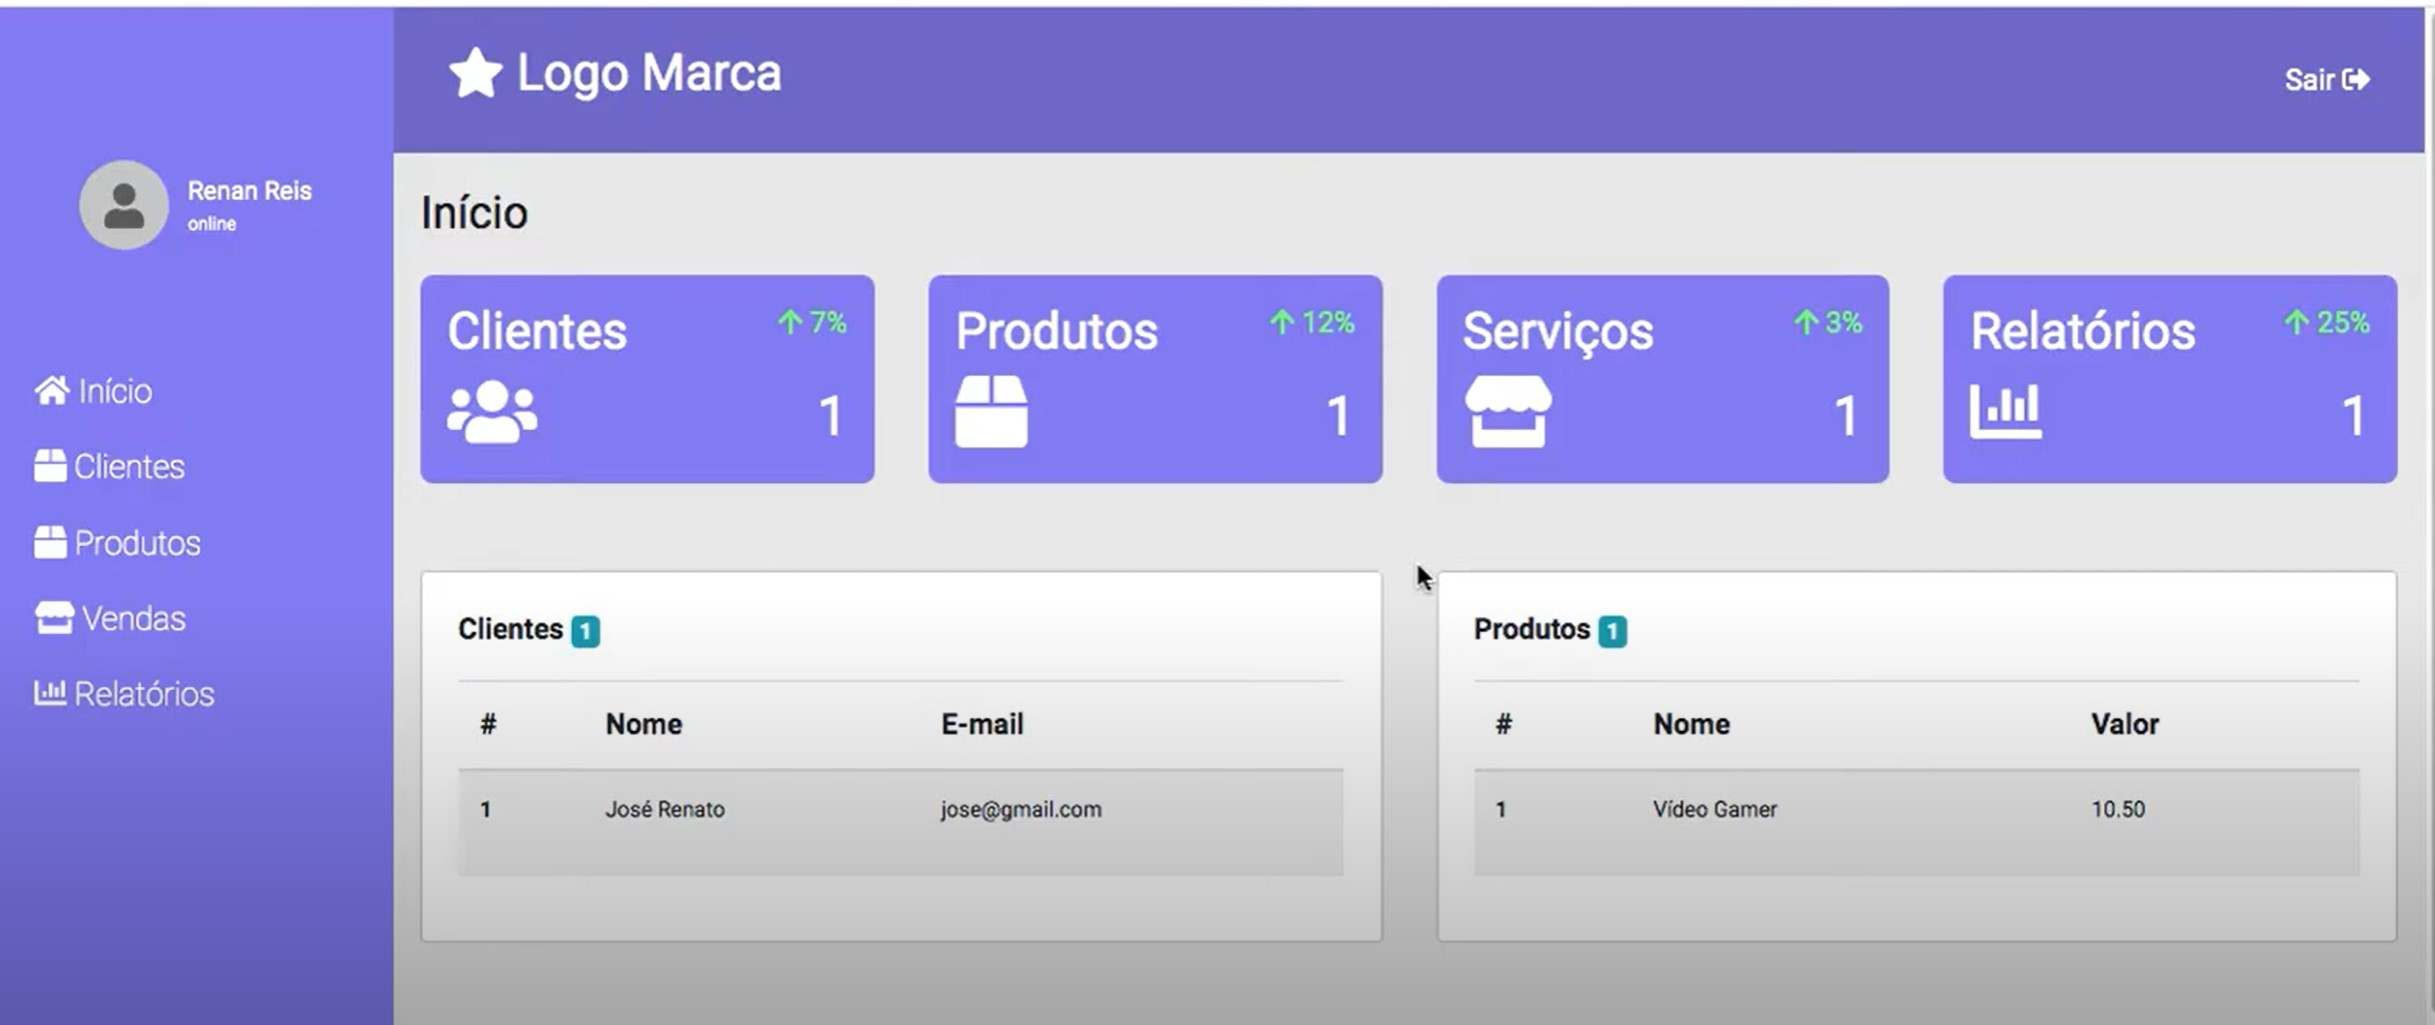
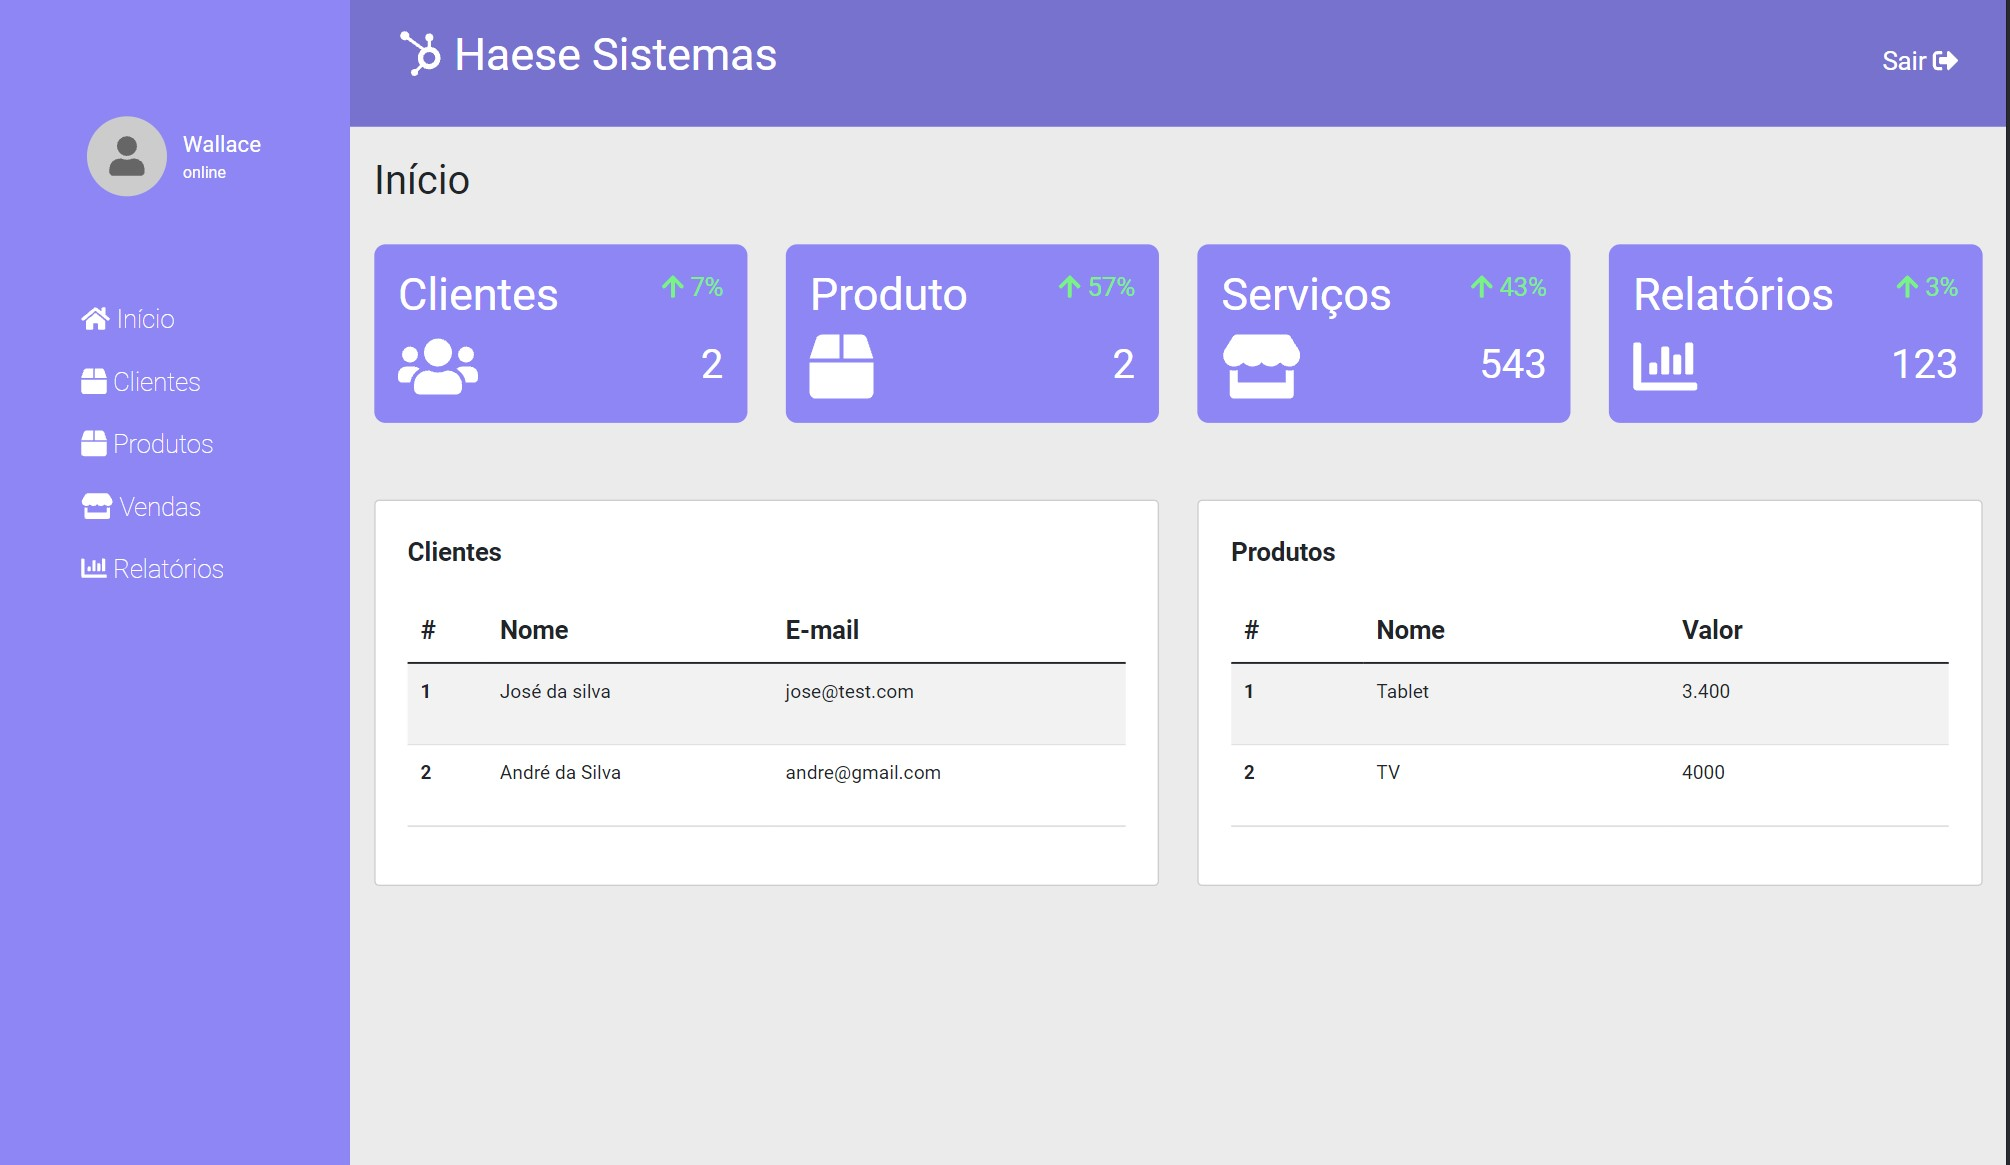
Add progress till last class and added migrations

diff --git a/frontend/src/pages/Home/HomeComponent.vue b/frontend/src/pages/Home/HomeComponent.vue
@@ -12,7 +12,7 @@
                             :type="'Clientes'" 
                             :percentagem="'7%'" 
                             :icon="'fa-users'"
-                            :qtd="'7590'"                        
+                            :qtd="clients.length"                        
                         />
                     </div>
 
@@ -21,7 +21,7 @@
                             :type="'Produto'" 
                             :percentagem="'57%'" 
                             :icon="'fa-box'"
-                            :qtd="'350'"                        
+                            :qtd="products.length"                        
                         />
                     </div>
 
@@ -30,7 +30,7 @@
                             :type="'Serviços'" 
                             :percentagem="'43%'" 
                             :icon="'fa-store'"
-                            :qtd="'543'"                        
+                            :qtd="543"                        
                         />
                     </div>
 
@@ -39,7 +39,7 @@
                             :type="'Relatórios'" 
                             :percentagem="'3%'" 
                             :icon="'fa-chart-bar'"
-                            :qtd="'123'"                        
+                            :qtd="123"                        
                         />
                     </div>
                 </div>

diff --git a/frontend/src/components/ListsComponent.vue b/frontend/src/components/ListsComponent.vue
@@ -17,12 +17,12 @@
                     </tr>
                 </thead>
                 <tbody>
-                    <tr v-for="user in data" :key="user.id">
+                    <tr v-for="item in data" :key="item.id">
                     <th scope="row">
-                        <p class="users">{{ user.id }}</p>
+                        <p class="users">{{ item.id }}</p>
                     </th>
-                    <td><p class="users">{{ user.name }}</p></td>
-                    <td><p class="users">{{ user.email }}</p></td>
+                    <td><p class="users">{{ item.name }}</p></td>
+                    <td><p class="users">{{ (description == 'Clientes') ? item.email : item.value}}</p></td>
                     </tr>
                 </tbody>
             </table>

diff --git a/frontend/src/pages/DashBoard/components/NavBarComponent.vue b/frontend/src/pages/DashBoard/components/NavBarComponent.vue
@@ -1,8 +1,8 @@
 <template>
     <div class="navbar">
         <h3 class="logo">
-            <i class="fa fa-star" />
-            Logo Marca
+            <i class="fab fa-hubspot" />
+            Haese Sistemas
         </h3>
         <a 
             href="" 

diff --git a/frontend/src/components/CardsComponent.vue b/frontend/src/components/CardsComponent.vue
@@ -21,7 +21,7 @@ export default {
         type: String, 
         percentagem: String,
         icon: String,
-        qtd: String,
+        qtd: Number,
     }
 
 

diff --git a/backend/app/Http/Controllers/HomeController.php b/backend/app/Http/Controllers/HomeController.php
@@ -3,6 +3,7 @@
 namespace App\Http\Controllers;
 
 use App\Http\Controllers\Controller;
+use App\Models\Models\Client;
 use Illuminate\Http\Request;
 
 class HomeController extends Controller
@@ -10,19 +11,18 @@ class HomeController extends Controller
     public function index()
     {
             
-        $clients = [
-            [
-                'id' => 1,
-                'name' => 'José Da Silva',
-                'email' => 'jose@mail.com',
-            ],
-        ];
+        $clients = Client::all();
 
         $products = [
             [
                 'id' => 1,
                 'name' => 'Tablet',
                 'value' => '3.400',
+            ],
+            [
+                'id' => 2,
+                'name' => 'TV',
+                'value' => '4000',
             ]
         ];
 

diff --git a/backend/database/migrations/2021_10_07_221039_create_clients_table.php b/backend/database/migrations/2021_10_07_221039_create_clients_table.php
@@ -1,0 +1,35 @@
+<?php
+
+use Illuminate\Database\Migrations\Migration;
+use Illuminate\Database\Schema\Blueprint;
+use Illuminate\Support\Facades\Schema;
+
+class CreateClientsTable extends Migration
+{
+    /**
+     * Run the migrations.
+     *
+     * @return void
+     */
+    public function up()
+    {
+        Schema::create('clients', function (Blueprint $table) {
+            $table->id();
+            $table->string('name');
+            $table->string('email');
+            $table->string('phone');
+            $table->softDeletes();
+            $table->timestamps();
+        });
+    }
+
+    /**
+     * Reverse the migrations.
+     *
+     * @return void
+     */
+    public function down()
+    {
+        Schema::dropIfExists('clients');
+    }
+}

diff --git a/backend/app/Models/Models/Client.php b/backend/app/Models/Models/Client.php
@@ -1,0 +1,11 @@
+<?php
+
+namespace App\Models\Models;
+
+use Illuminate\Database\Eloquent\Factories\HasFactory;
+use Illuminate\Database\Eloquent\Model;
+
+class Client extends Model
+{
+    use HasFactory;
+}
